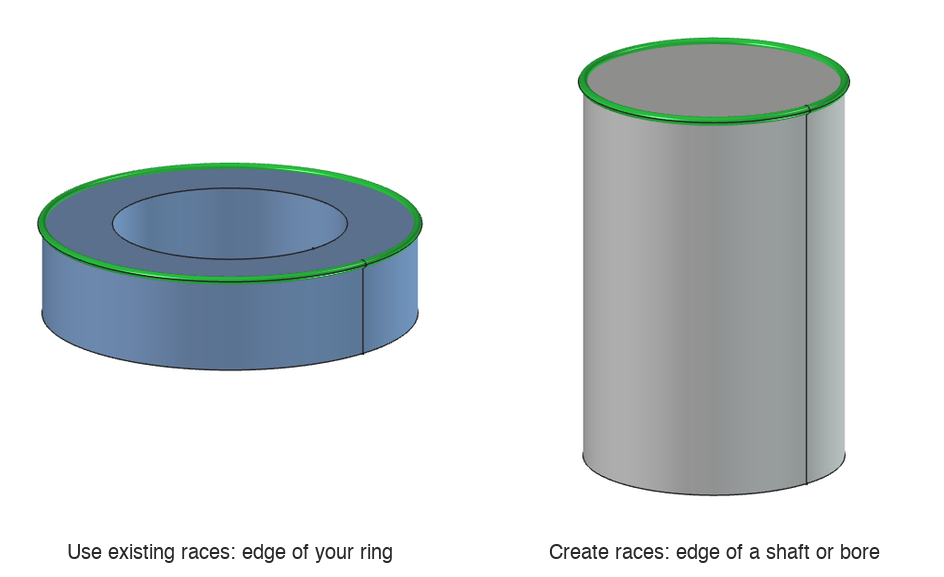
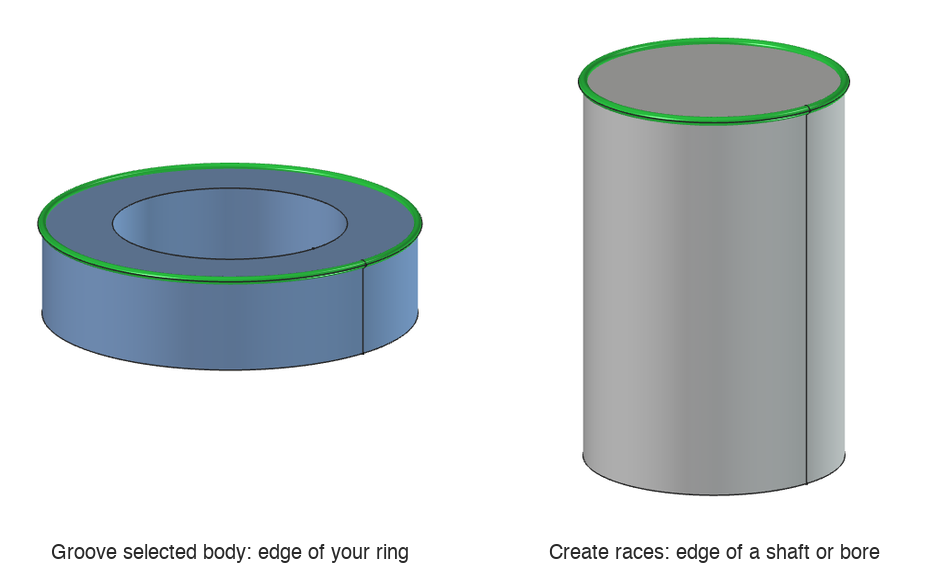
feat: add ability to groove selected body

Changed region(s): [[0.0614, 0.9359, 0.4301, 0.9983]]

diff --git a/README.md b/README.md
@@ -1,9 +1,9 @@
 # Deep Groove Ball Bearing - FreeCAD macro
 
 Creates a fully parametric deep groove ball bearing in PartDesign: the inner and outer
-races, a snap-in cage and (optionally) the balls. Pick a circular edge - the bore of a
-ring you modelled, the end of a shaft or a housing bore - fill in the dialog, done.
-Every size can be changed later from a single place.
+races, a snap-in cage and (optionally) the balls. Pick a circular edge - the end of a
+shaft, a housing bore, or the bore of a part you want the bearing built into - fill in
+the dialog, done. Every size can be changed later from a single place.
 
 <img src="images/overview.png" width="420" alt="Bearing cutaway: races (blue), cage (orange), balls (red)">
 
@@ -26,18 +26,35 @@ Every field also has a tooltip in the dialog.
 
 Where the races come from.
 
-- **Use existing races** - groove a ring you already modelled in a PartDesign Body. Select
-  an edge on its inner or outer diameter; ID, OD and height are measured from it.
-- **Create races** - build a new ring. The selected edge (on anything, e.g. a shaft or a
-  housing bore) sets the bearing's position and axis.
+- **Groove selected body** - cut the ball groove into the PartDesign Body the edge belongs
+  to; the body itself becomes the races, nothing new is added around it.
+  - On a **bore**, the bore is the bearing's inner diameter: a thin inner race is split
+    off and the rest of the body is the outer race, with the ball groove in it.
+  - On an **outer surface**, it's the other way round: the outer race is split off and
+    the body keeps the inner race groove.
+  - A plain **ring** you modelled simply becomes the inner and outer race.
+
+  The other diameter and the height set where the groove goes; they're prefilled from the
+  body (the nearest matching cylinder, and the length of the selected one).
+- **Create races** - build a new ring with both races. The selected edge (on anything, e.g.
+  the end of a shaft or a housing bore) sets the bearing's position and axis.
 
 ![Races modes](images/races-modes.png)
 
+![Grooving a part with a bore](images/groove-body.png)
+
+If the groove doesn't cut all the way through the body (e.g. the height is smaller than
+the part), the macro warns you that the races aren't separate.
+
 ### Selected edge is
 
-_Create races_ only: whether the selected edge is the bearing's **inner diameter** (e.g. the
-end of a shaft) or its **outer diameter** (e.g. a housing bore). That diameter is taken
-from the edge and locked.
+Whether the selected edge is the bearing's **inner diameter** or its **outer diameter**.
+That diameter is taken from the edge and locked.
+
+- _Groove selected body_: detected - a bore is the inner diameter, an outer surface the
+  outer diameter.
+- _Create races_: preset from the edge - the end of a shaft is the inner diameter, a
+  housing bore the outer diameter - and you can change it.
 
 ### Inner diameter, Outer diameter, Height, Ball diameter
 
@@ -45,8 +62,9 @@ from the edge and locked.
 - **Outer diameter** - outside of the outer race (the housing bore size).
 - **Height** - axial width of the bearing (_B_ in bearing catalogues).
 - **Ball diameter** - the balls run on the pitch diameter, midway between ID and OD, and
-  the gap between the two races is half the ball diameter. Must be smaller than the ring
-  wall, (OD − ID) / 2, and than the height.
+  the gap between the two races is always half the ball diameter (a 4 mm ball gives a 2 mm
+  gap). Must be smaller than the ring wall, (OD − ID) / 2, and than the height. Default
+  4 mm, or smaller when that doesn't fit the bearing.
 
 ![Section with dimensions](images/section.png)
 
@@ -70,8 +88,9 @@ Snap-in cage between the races that keeps the balls evenly spaced, built as a se
 **Cage** body. Untick the group to leave it out. The cage is drawn _seated_: shifted along
 the axis until its pockets are centered on the balls, as it sits in a real bearing.
 
-- **Cage thickness** - radial thickness of the cage ring. Must be thinner than the gap
-  between the races (ball diameter / 2); the rest is running clearance.
+- **Cage thickness** - radial thickness of the cage ring. It sits in the gap between the
+  races, so it can be at most half the ball diameter (2 mm for a 4 mm ball); anything
+  less is running clearance. Default 1.5 mm.
 
   ![Cage thickness](images/cage-thickness.png)
 
@@ -101,7 +120,7 @@ the axis until its pockets are centered on the balls, as it sits in a real beari
 All values are stored on the **BearingParameters** datum inside the bearing's Body. Select
 it in the tree and edit the values in the property editor; the races, cage and balls
 update. Each bearing has its own datum, so several bearings can live in one document.
-With _Use existing races_, ID, OD and height are measured once and shown read-only.
+With _Groove selected body_, the diameter taken from the selected edge is read-only.
 
 ## AI disclosure
 
